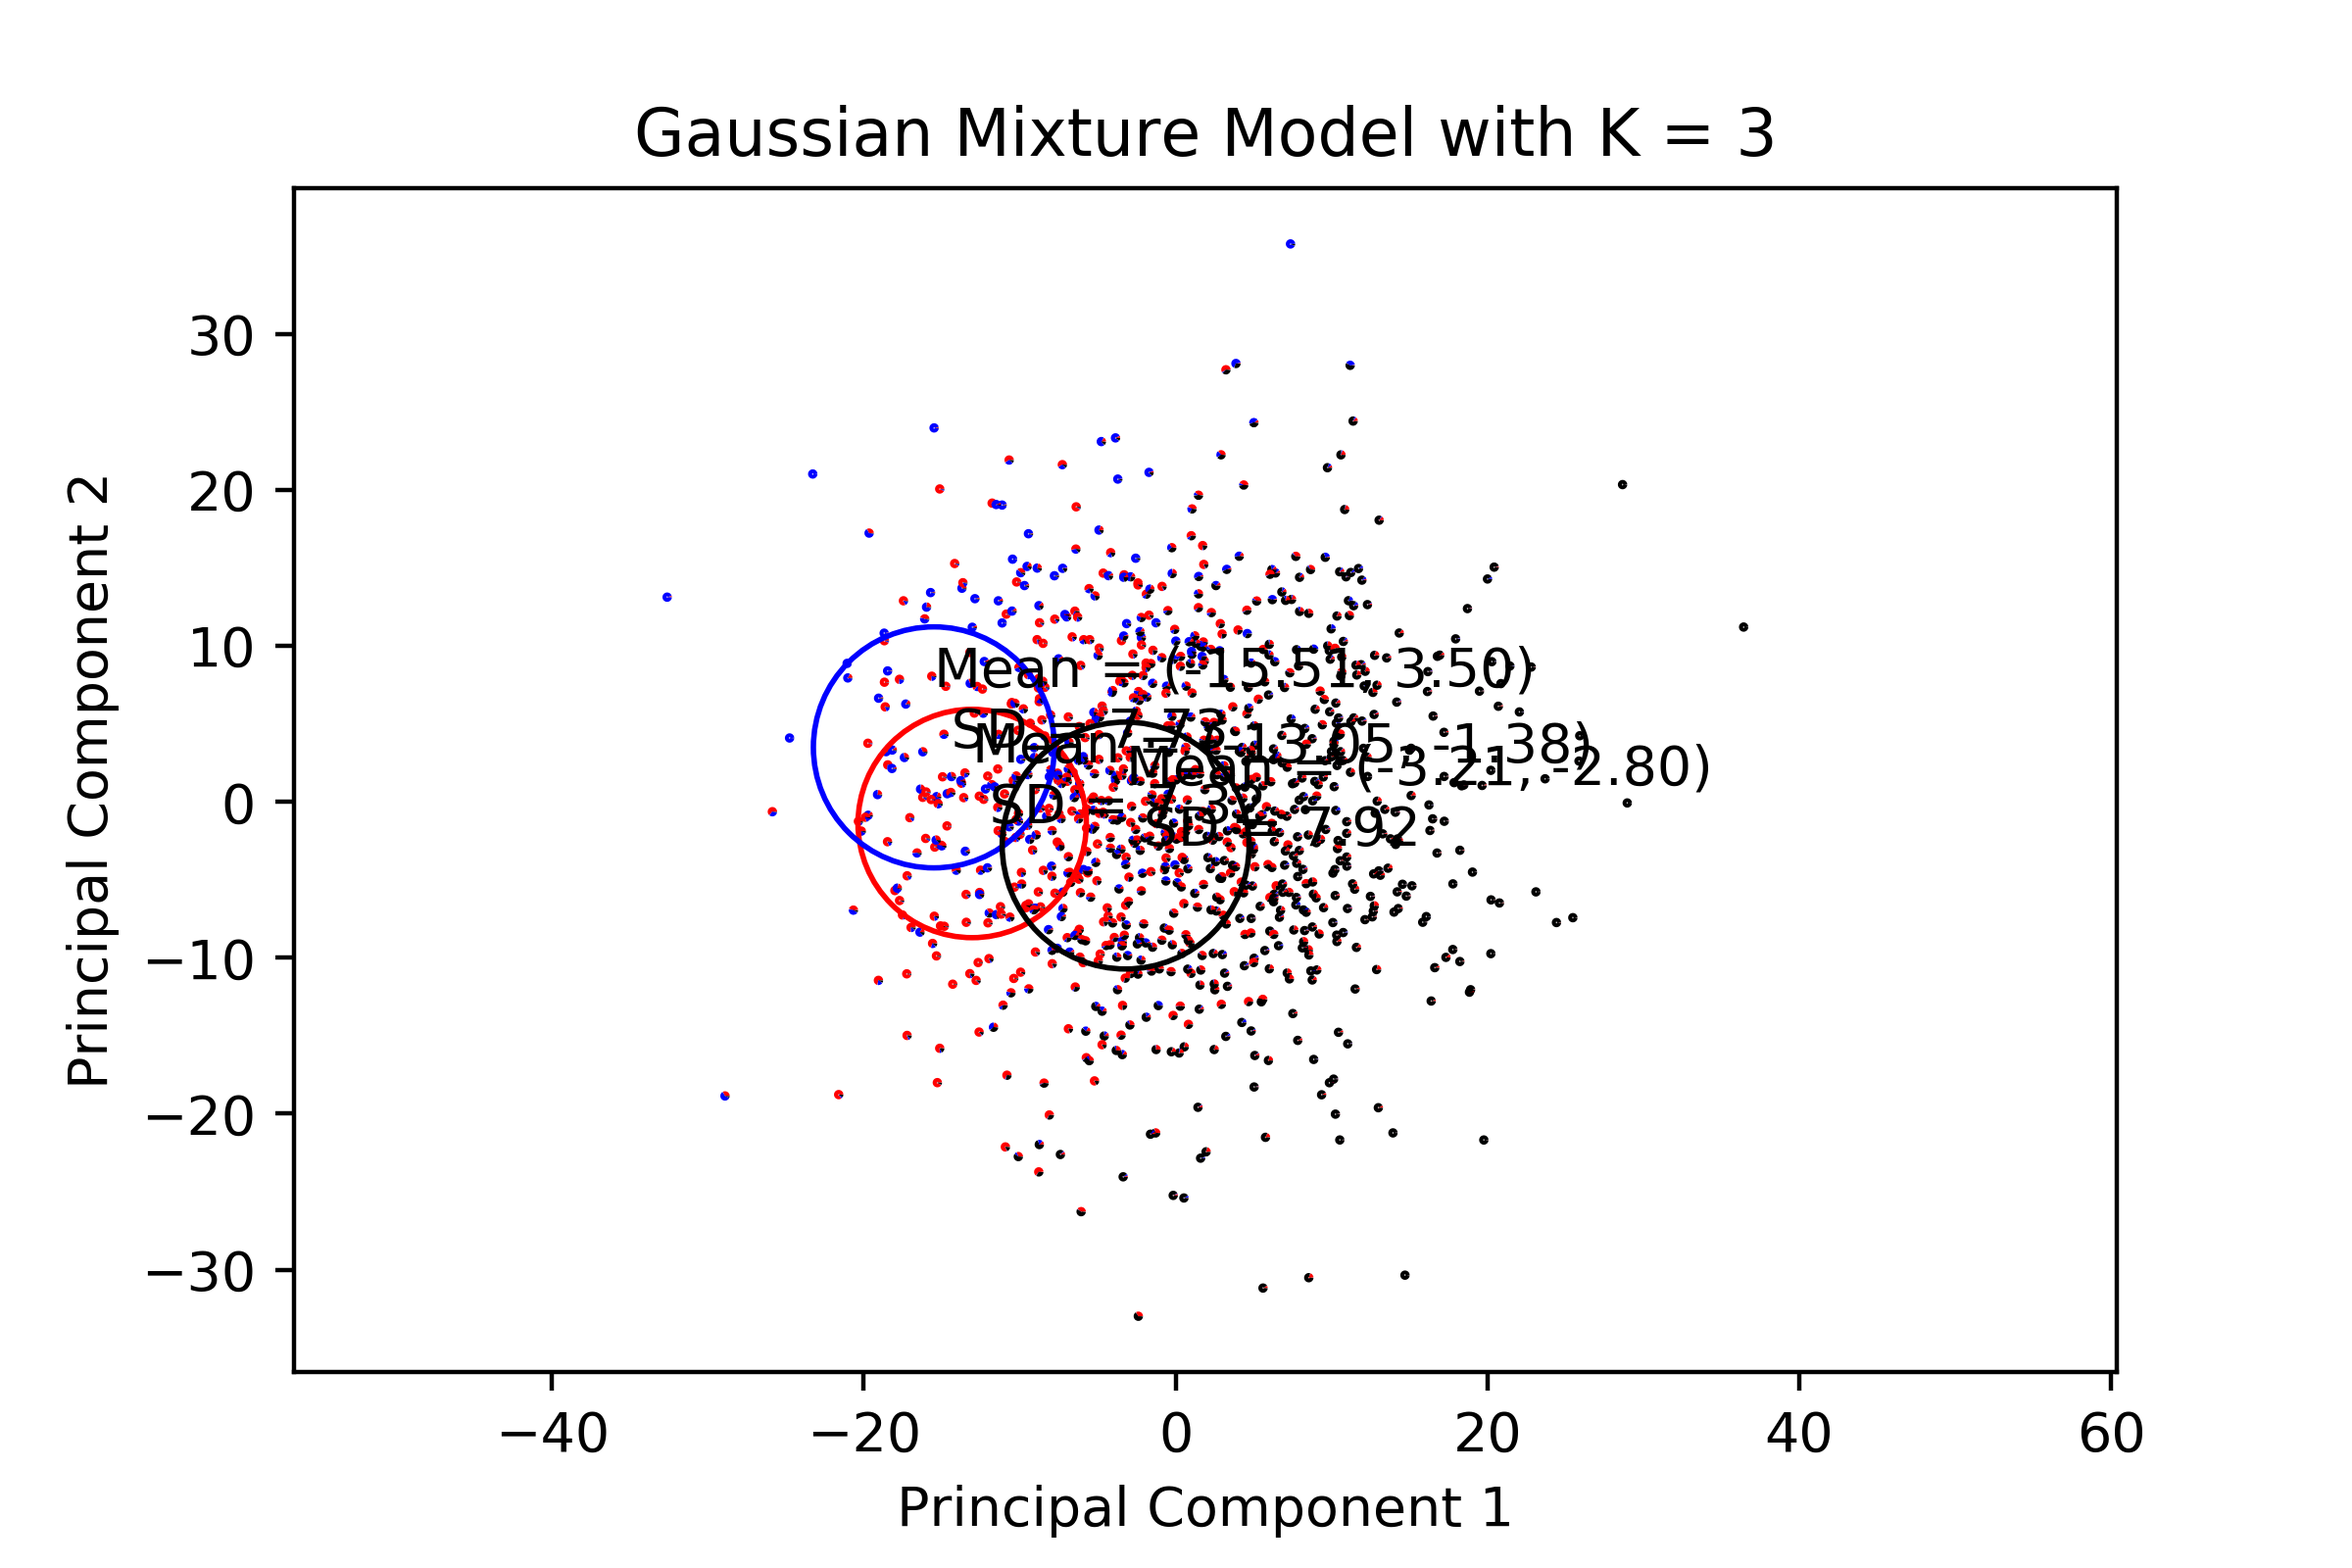
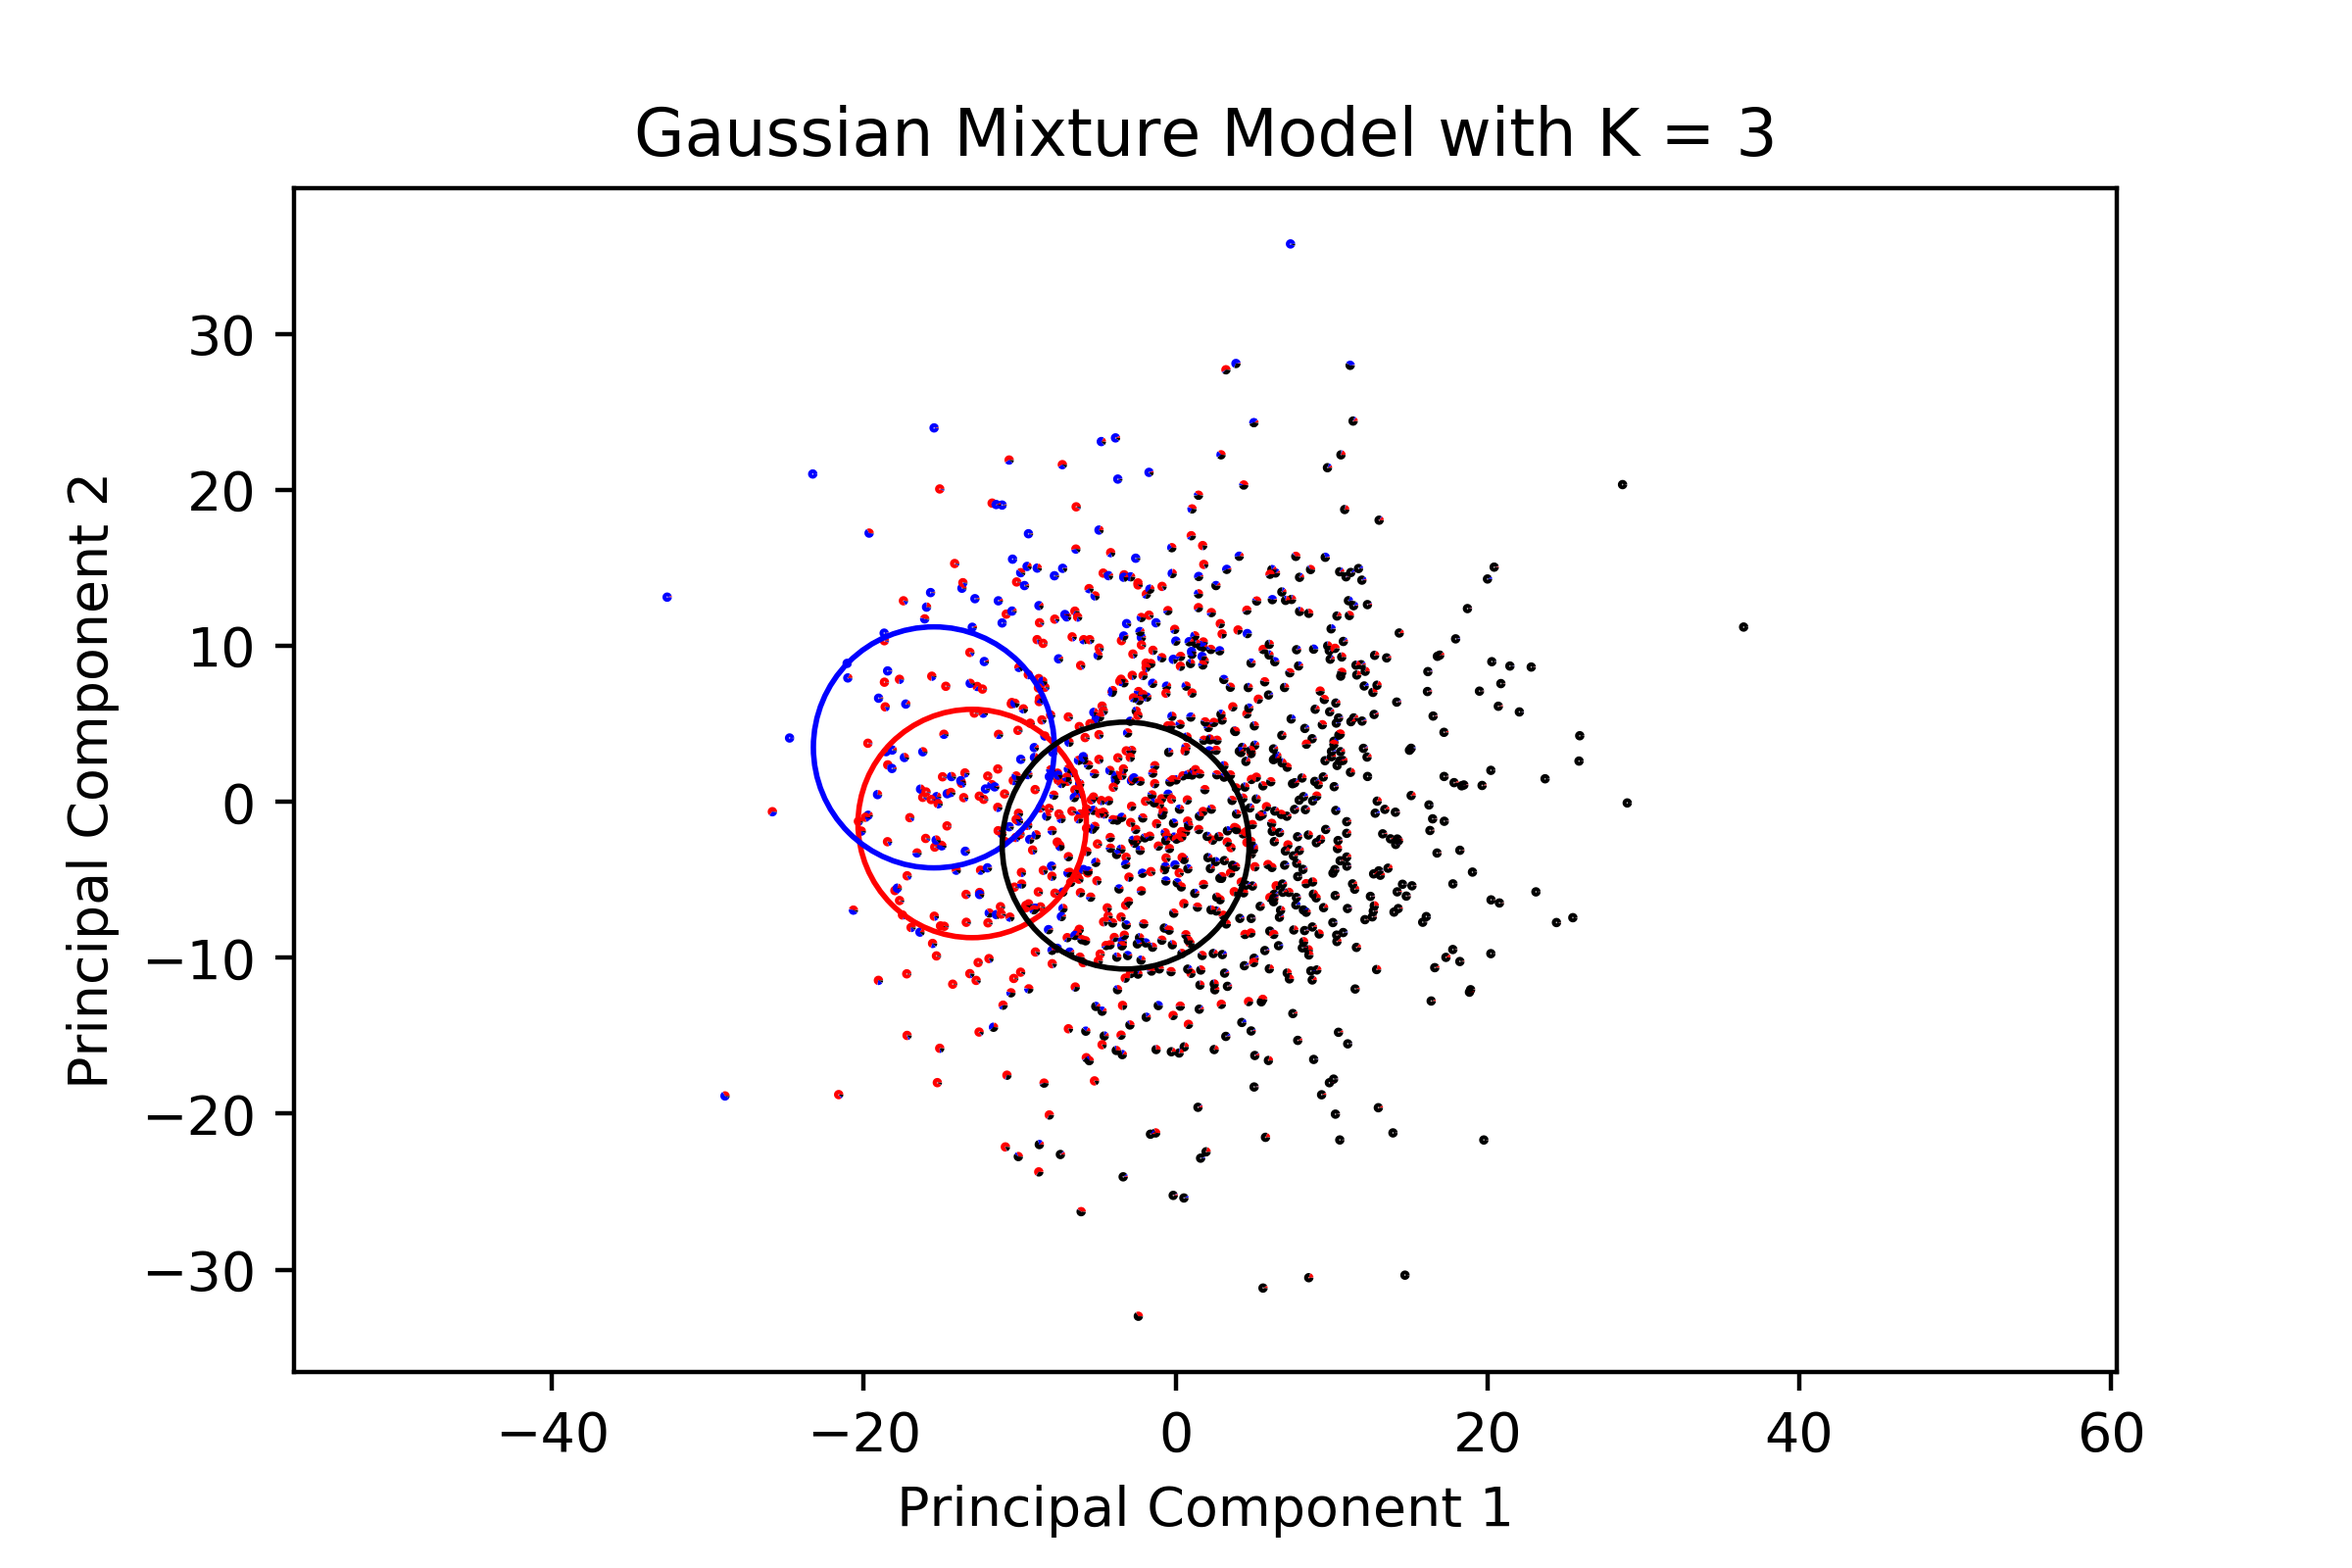
temporary plot fix

Changed region(s): [[0.375, 0.4062, 0.7188, 0.5312], [0.5938, 0.4062, 0.6562, 0.4375]]

diff --git a/funcs.py b/funcs.py
@@ -73,14 +73,15 @@ def plot(X: np.ndarray, mixture: GaussianMixture, post: np.ndarray,
                       edgecolor=color[j])
             ax.add_patch(arc)
             theta += offset
+    legend = []
     for j in range(K):
         mu = projected_mean[j]
         sigma = np.sqrt(mixture.var[j])
         circle = Circle(mu, sigma, color=color[j], fill=False)
         ax.add_patch(circle)
-        legend = "Mean = ({:0.2f}, {:0.2f})\n SD = {:0.2f}".format(
-            mu[0], mu[1], sigma)
-        ax.text(mu[0], mu[1], legend)
+        legend += "Mean = ("+str(mu[0])+","+str(mu[1])+"), SD = "+str(sigma)
+    #     legend += "Mean = ({:0.2f}, {:0.2f}), SD = {:0.2f}".format(mu[0], mu[1], sigma)
+    # plt.legend(labels = legend, fontsize = 'xx-small', handlelength = 0.25)
     plt.axis('equal')
     plt.xlabel('Principal Component 1')
     plt.ylabel('Principal Component 2')
